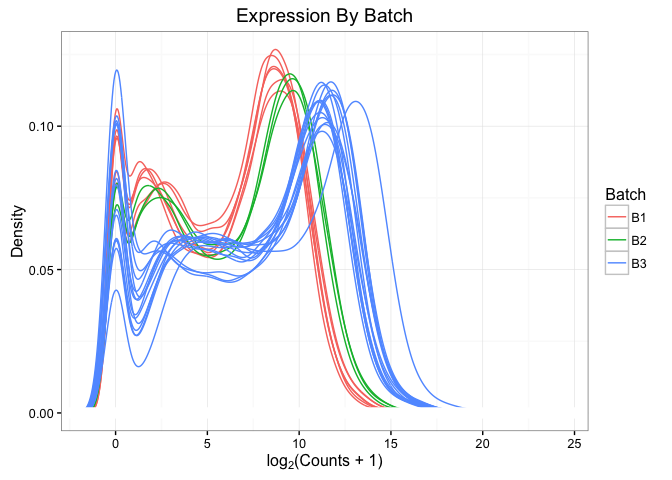
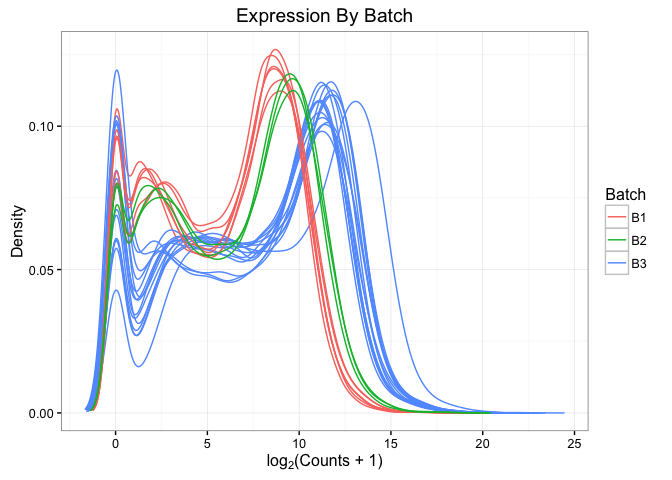
new dens

diff --git a/Scripts/Adalimumab_EDA.md b/Scripts/Adalimumab_EDA.md
@@ -1,5 +1,5 @@
 Adalimumab Data 
-================
+===============
 Preliminary Review and Concerns
 -------------------------------
 
@@ -94,14 +94,11 @@ dat <- data.frame(Batch = rep(pheno$batch, each=512), gather(data.frame(X), Samp
                   Density = gather(data.frame(Y), Sample, Density) %>% select(Density))
 
 # Plot results
-ggplot(dat, aes(Expr, Density, colour=Batch)) + geom_path() + 
-   theme_bw() + geom_hline(yintercept=0, colour='white', size=4) + 
-   labs(title='Expression By Batch', x=expression('log'[2]*'(Counts + 1)'))
+ggplot(dat, aes(Expr, Density, group=Sample, colour=Batch)) + geom_path() + 
+   labs(title='Expression By Batch', x=expression('log'[2]*'(Counts + 1)')) + theme_bw()
 ```
 
-<p align='center'>
 <img src="Adalimumab_EDA_files/figure-markdown_github/dens, fig.-1.png" style="display: block; margin: auto;" />
-</p>
 
 It appears from this figure that the data follow an unusual bimodal distribution with considerable intra- and inter-batch variation.
 
@@ -120,9 +117,7 @@ ggplot(dat, aes(Sample, Expr, fill=Batch)) + geom_boxplot() +
   labs(title='Expression By Batch', y=expression('log'[2]*'(Counts + 1)')) + theme_bw()
 ```
 
-<p align='center'>
 <img src="Adalimumab_EDA_files/figure-markdown_github/box-1.png" style="display: block; margin: auto;" />
-</p>
 
 These figures suggest significant variability across batches. Since our `lmat` matrix ignores library size, the results could be a product of sequencing depth.
 
@@ -136,9 +131,7 @@ ggplot(dat, aes(Batch, LibSize, fill=Batch)) + geom_boxplot() +
   labs(title='Library Size By Batch', y='Library Size') + theme_bw()
 ```
 
-<p align='center'>
 <img src="Adalimumab_EDA_files/figure-markdown_github/box2-1.png" style="display: block; margin: auto;" />
-</p>
 
 Indeed, there is a clear pattern of dependence between library size and batch. To try and overcome these effects, we use the rlog variance stabilising transform, which adjusts for sequencing depth.
 
@@ -160,9 +153,7 @@ ggplot(dat, aes(PC1, PC2, colour=Batch, shape=Batch)) + geom_point() +
   labs(title='PCA', x=paste0('PC1 (', imp1, '%)'), y=paste0('PC2 (', imp2, '%)')) + theme_bw()
 ```
 
-<p align='center'>
 <img src="Adalimumab_EDA_files/figure-markdown_github/pca-1.png" style="display: block; margin: auto;" />
-</p>
 
 Even using the `rld` matrix, batch effects persist.
 
@@ -183,9 +174,7 @@ aheatmap(dm, col=rb, Rowv=FALSE, annCol=list(Batch = pheno$batch),
   distfun=function(x) as.dist(x), hclustfun='average', main='Sample Similarity Heatmap')
 ```
 
-<p align='center'>
 <img src="Adalimumab_EDA_files/figure-markdown_github/samplesim-1.png" style="display: block; margin: auto;" />
-</p>
 
 Strong batch effects do not necessarily doom a study's results. Batch is often included as a covariate in regression models ([Akey et al., 2007](http://www.nature.com/ng/journal/v39/n7/full/ng0707-807.html)), or else explicitly adjusted for using the popular ComBat method of [Johnson & Li (2006)](http://biostatistics.oxfordjournals.org/content/8/1/118.abstract). Unfortunately, neither alternative is available to us in this case, as batch is 100% confounded with the other variables in our intended design matrix. To be effectively removed, batches must be (approximately) balanced across subjects and time points. Nesting clinical covariates within a batch makes it mathematically impossible to distinguish between biological signal and technical artefact.
 
